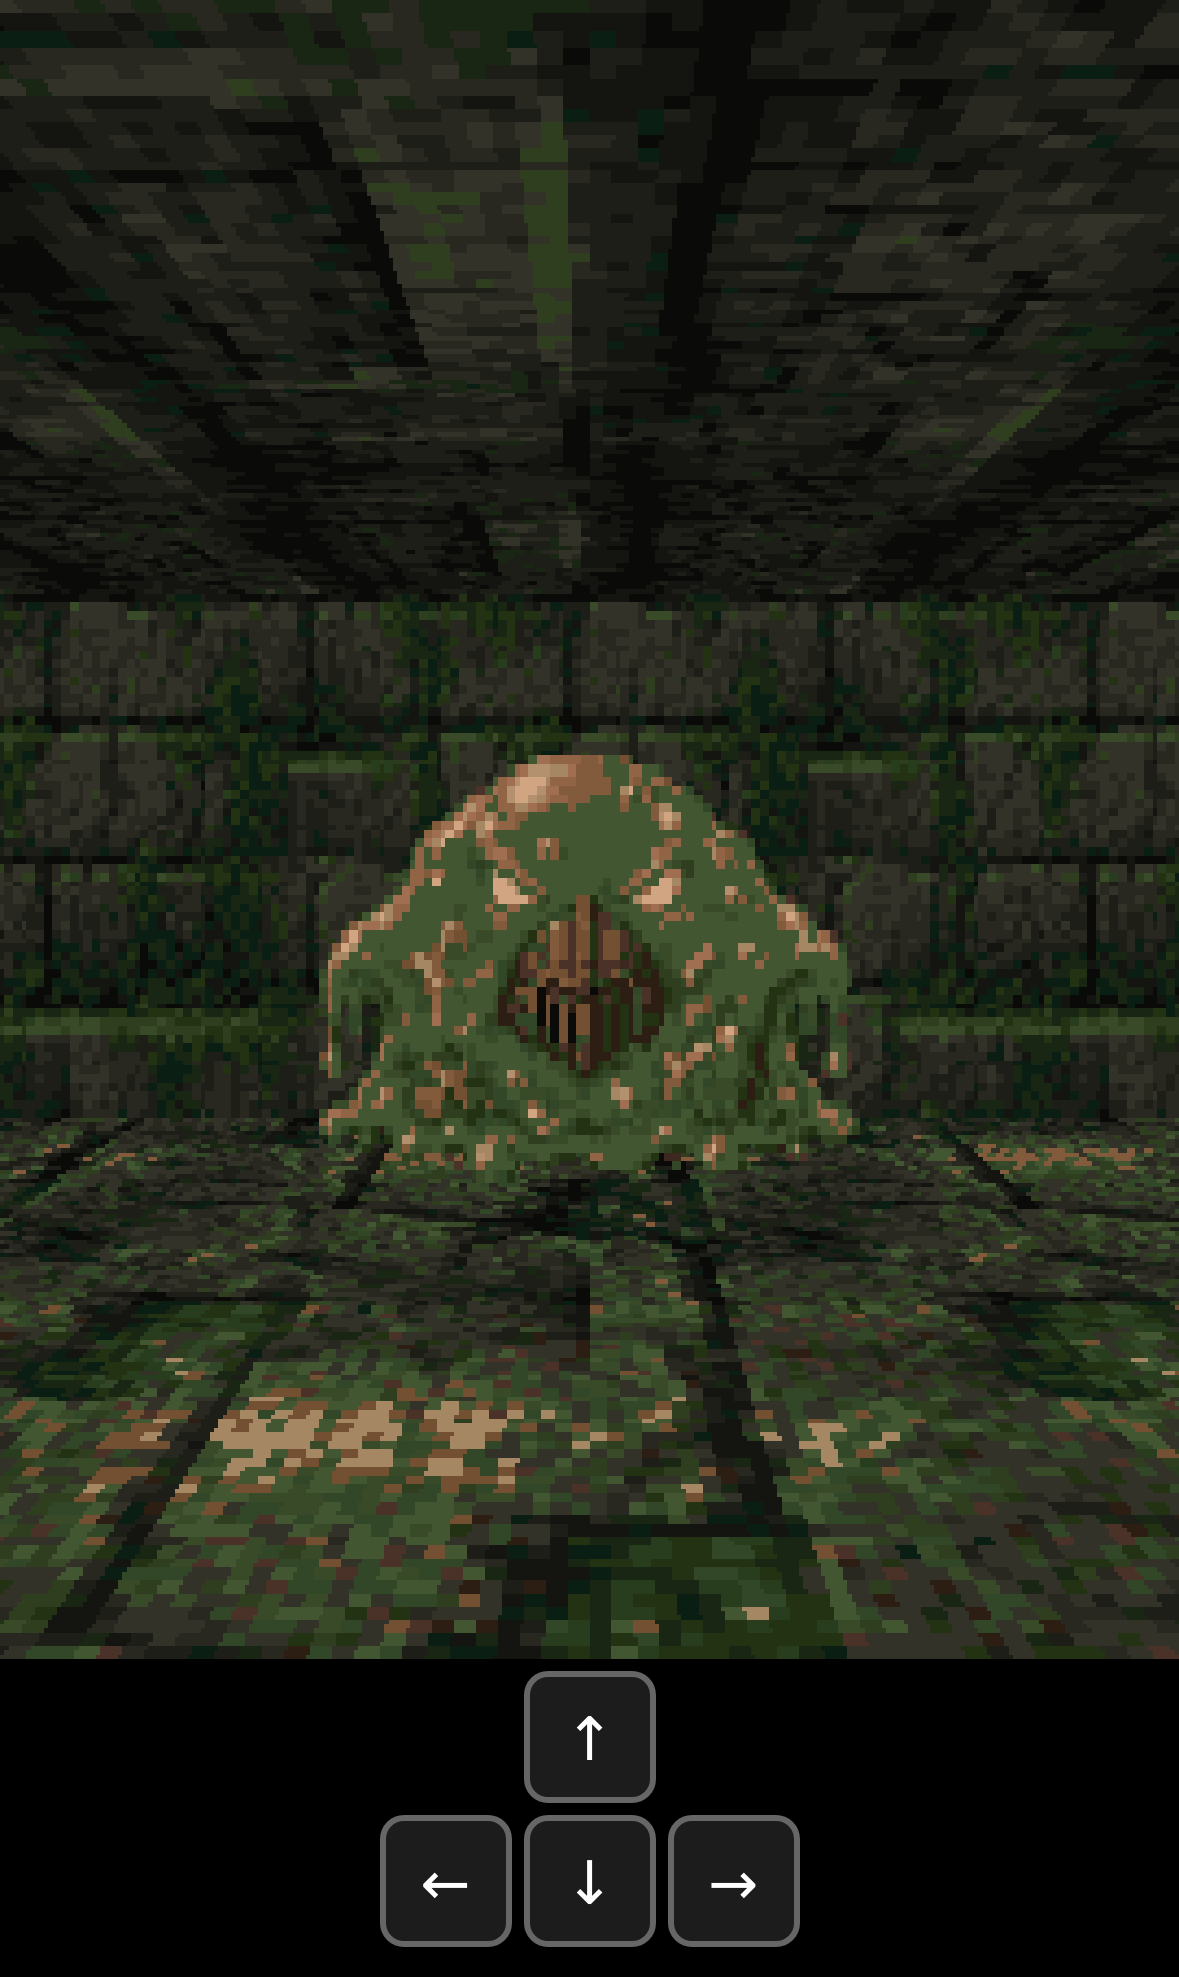
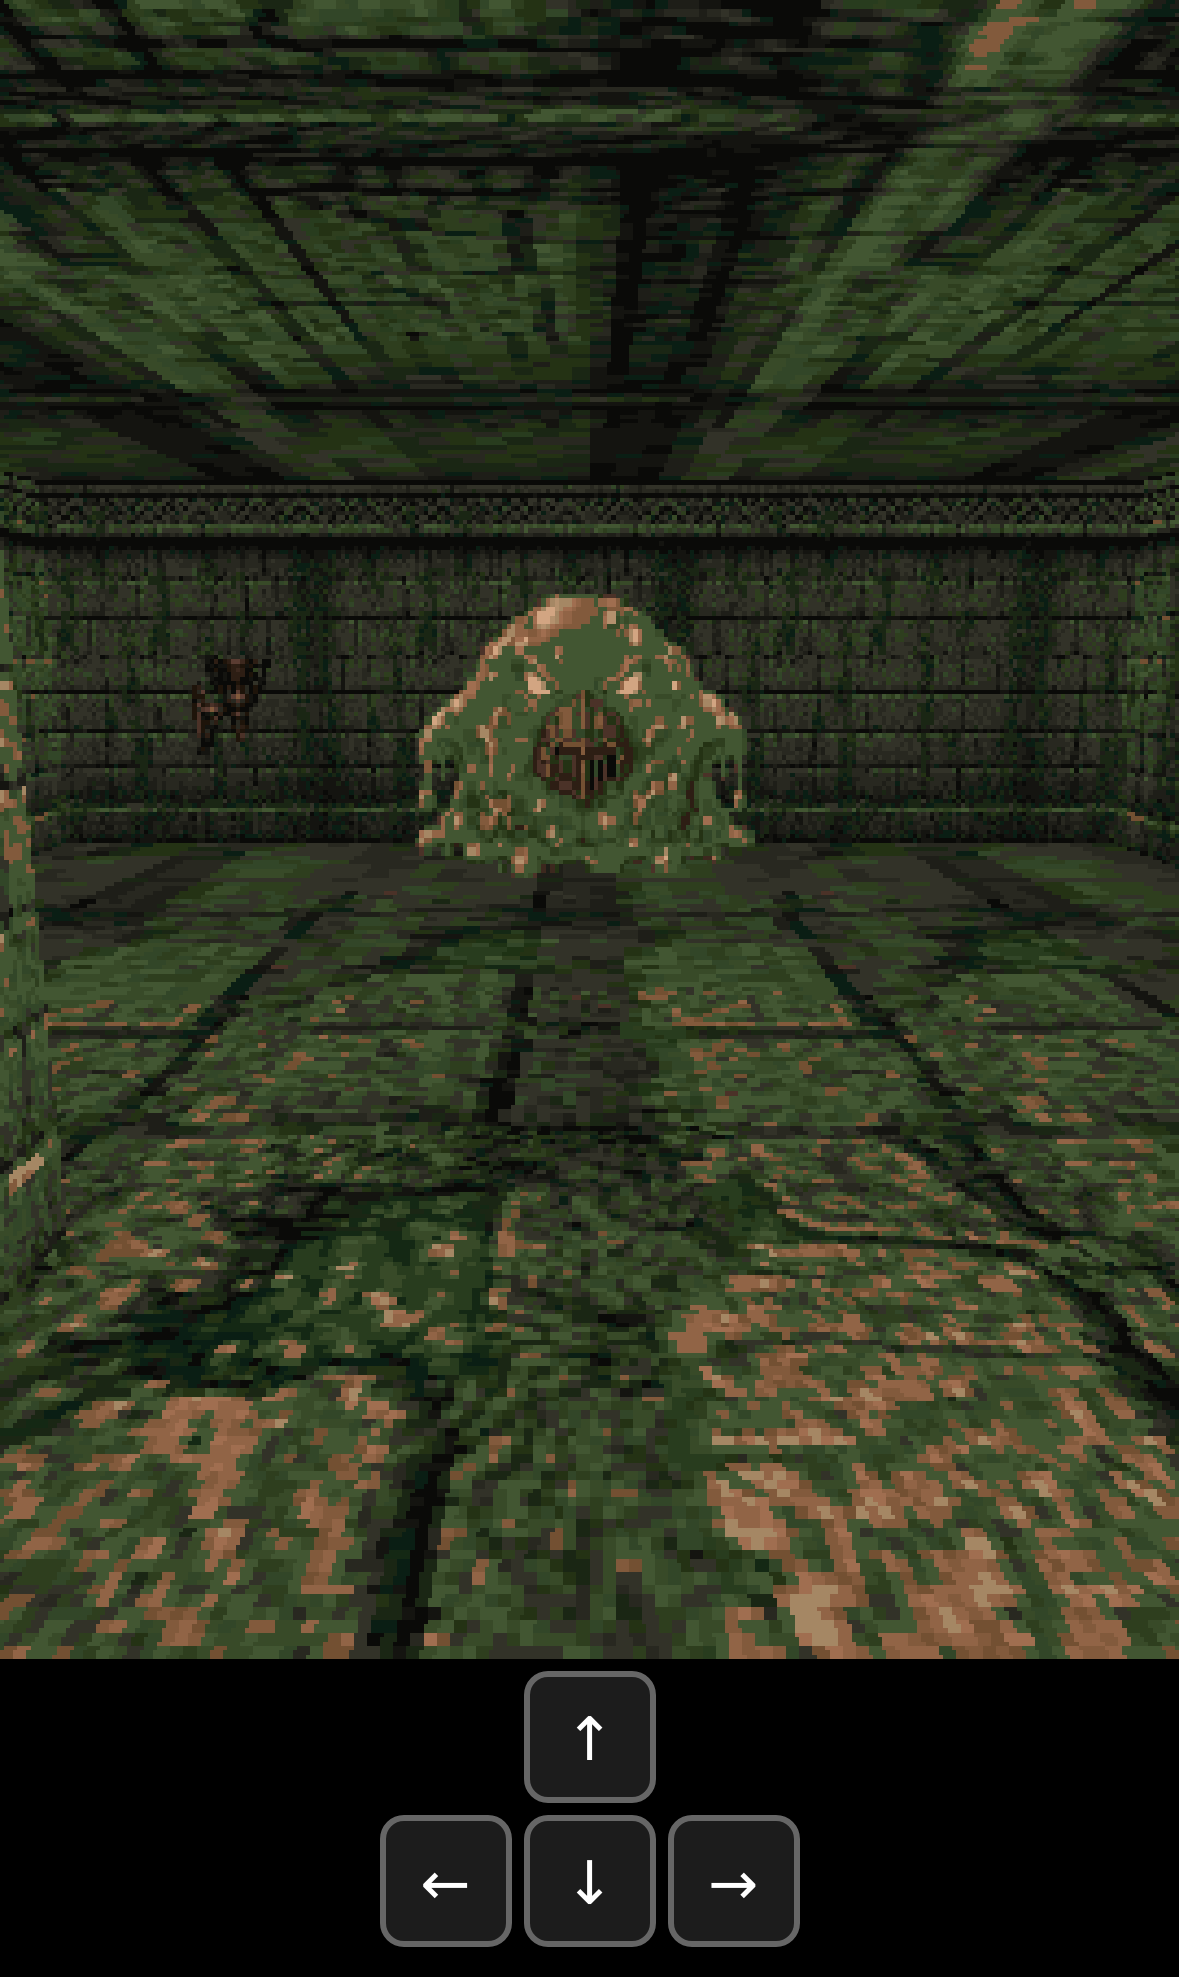
Add iPhone 15 WebKit screenshots for proto3d camera and sconces.
Captured from the production preview with Playwright WebKit
(devices['iPhone 15']): adjacent wall/door floor strip, side and far
sconces, left/right/face-on mounts, and palette snap.

diff --git a/tests/proto3d.spec.ts b/tests/proto3d.spec.ts
@@ -39,13 +39,13 @@ test('proto3d camera offset, wall sconces, no errors', async ({ page }) => {
   // (b) facing the locked door from 1 square
   await pose(5, 2, 3, 'proto3d-door-1sq.png');
   // (c) walking past a sconce on a side wall (flat on the wall)
-  await pose(1, 6, 0, 'proto3d-sconce-side.png');
+  await pose(1, 5, 2, 'proto3d-sconce-side.png');
   // (d) sconce on the far wall
   await pose(3, 6, 3, 'proto3d-sconce-far.png');
   // left-wall sconce, looking north from the start corridor
   await pose(1, 7, 0, 'proto3d-sconce-left.png');
-  // right-wall sconce in the water hall
-  await pose(3, 1, 0, 'proto3d-sconce-right.png');
+  // right-wall sconce: one square south of the water-hall torch, facing north
+  await pose(3, 2, 0, 'proto3d-sconce-right.png');
   // face-on sconce
   await pose(1, 6, 3, 'proto3d-sconce-face.png');
   // palette snap at start pose
